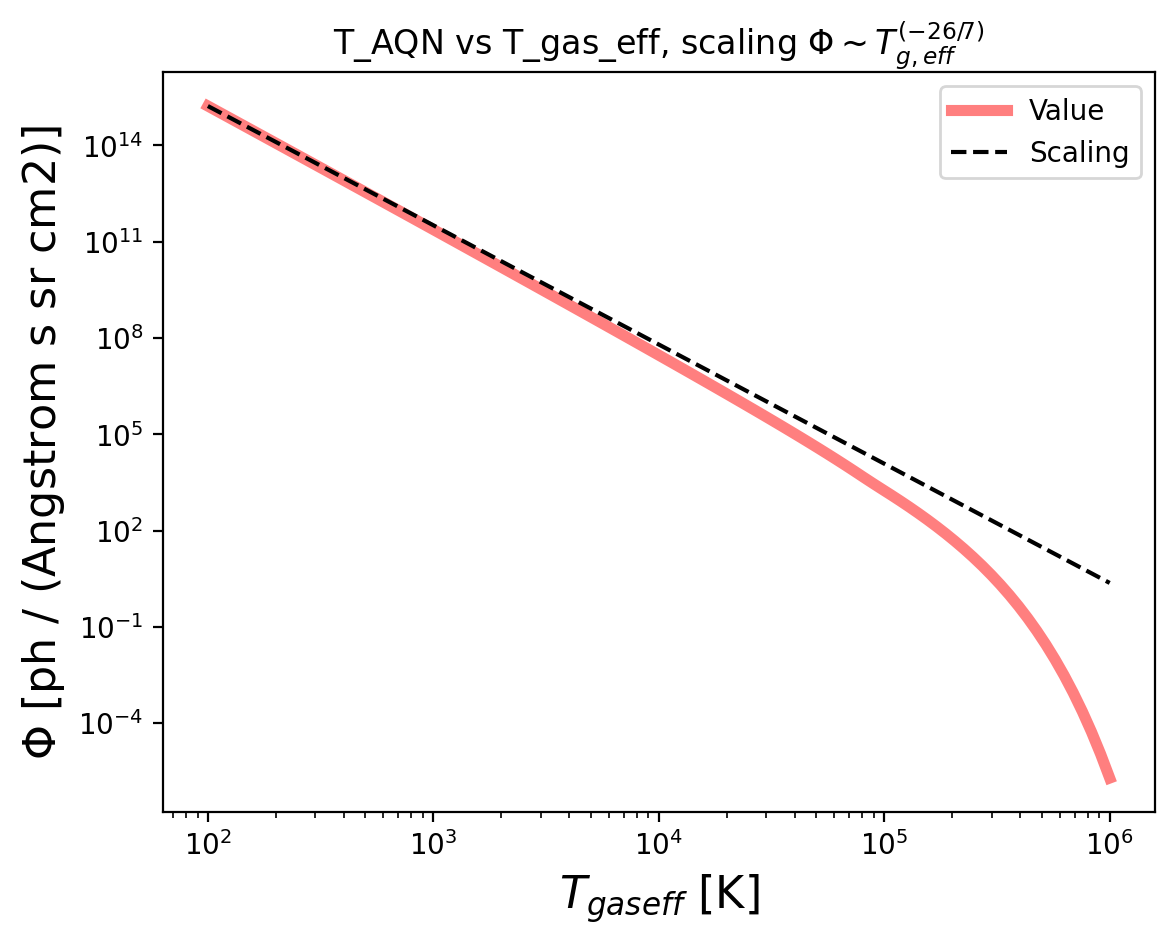
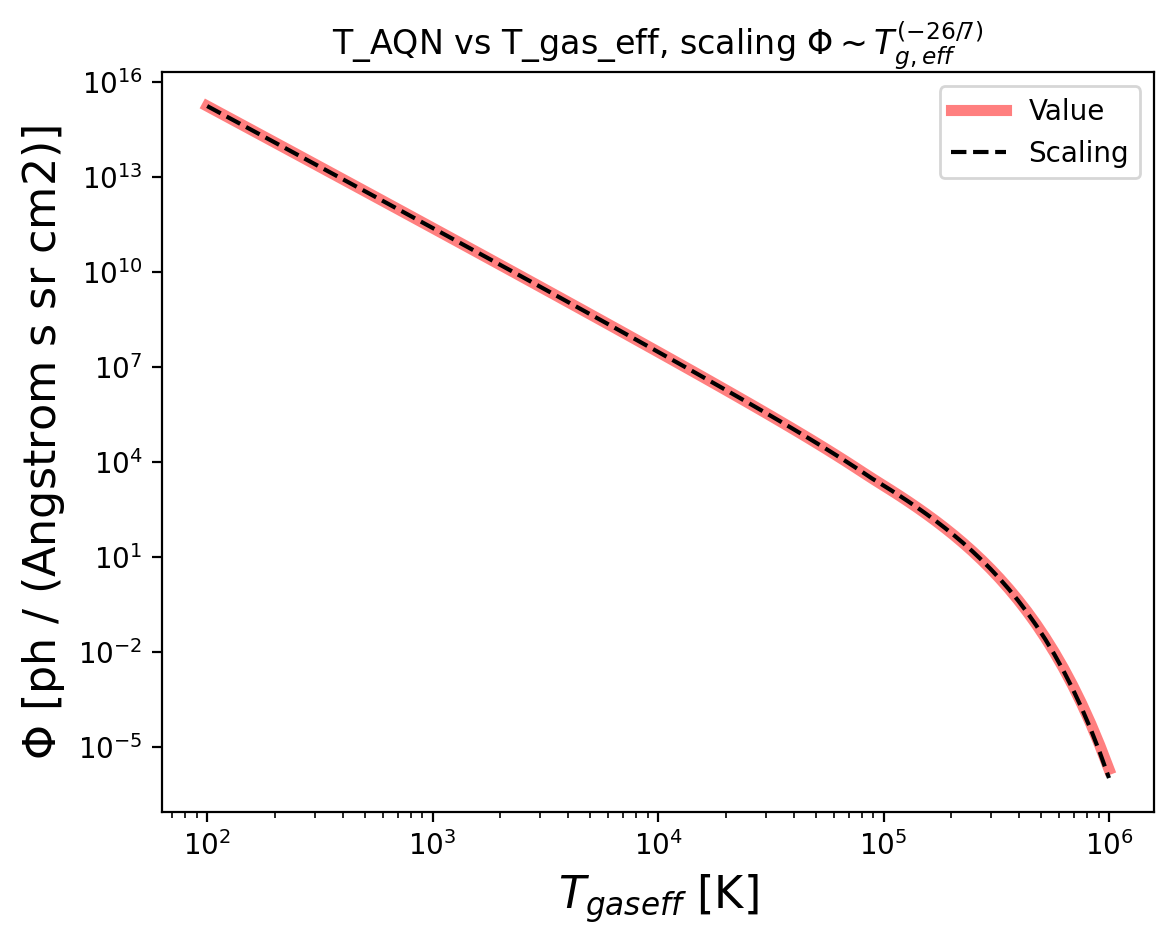
latest meeting changes

diff --git a/processing/notebook_functions.py b/processing/notebook_functions.py
@@ -561,7 +561,8 @@ def epsilon_parameter_relations_study(quant_original, m_aqn_kg, frequency_band):
 
     scaling_relation = epsilon_array[0] * (ioni_gas_array/ioni_gas_array[0])**(13/7) * H(x) / H(x[0])
 
-    fig, ax = plot_parameter_variation(r"$n_{ion}$ [1/cm$^3$]", r"$\Phi$ "+"["+str(photon_units.unit)+"]", ioni_gas_array, epsilon_array*epsilon_to_photon)
+    fig, ax = plot_parameter_variation(r"$n_{ion}$ [1/cm$^3$]", r"$\Phi$ "+"["+str(photon_units.unit)+"]", ioni_gas_array, 
+        epsilon_array*epsilon_to_photon)
     # plot_scaling_relation(ax, ioni_gas_array, 4/7, np.min(T_AQN_array))
     plt.plot(ioni_gas_array, scaling_relation*epsilon_to_photon, "--", color="black", label="Scaling")
 
@@ -606,8 +607,12 @@ def epsilon_parameter_relations_study(quant_original, m_aqn_kg, frequency_band):
         epsilon_array[i] = res["aqn_emit"]
         T_gas_eff_array[i] = res["temp_ion_eff"] / K_to_eV
         t_aqn_i_array[i] = res["t_aqn_i"]
+        print(T_gas, epsilon_array[i])
+    T = t_aqn_i_array * eV_to_erg
+    w = 2 * np.pi * np.mean(frequency_band) * Hz_to_erg
+    x = w/T
 
-    scaling_relation = epsilon_array[0] * (T_gas_eff_array/T_gas_eff_array[0])**(-26/7)
+    scaling_relation = epsilon_array[0] * (T_gas_eff_array/T_gas_eff_array[0])**(-26/7) * H(x) / H(x[0])
 
 
     fig, ax = plot_parameter_variation(r"$T_{gas eff}$ [K]", r"$\Phi$ "+"["+str(photon_units.unit)+"]", T_gas_eff_array, epsilon_array*epsilon_to_photon)
@@ -792,6 +797,8 @@ def parameter_variation(quant, m_aqn_kg, frequency_band, parameter_name, paramet
             res = compute_epsilon_ionized(quant, m_aqn_kg, frequency_band)
             epsilon_array[i] = res["aqn_emit"]
             t_aqn_i_array[i] = res["t_aqn_i" ]
+            # print(parameter, epsilon_array[i])
+            print(quant)
     else:
         for i, parameter in enumerate(parameter_array):
             res = compute_epsilon_ionized(quant, parameter, frequency_band)
